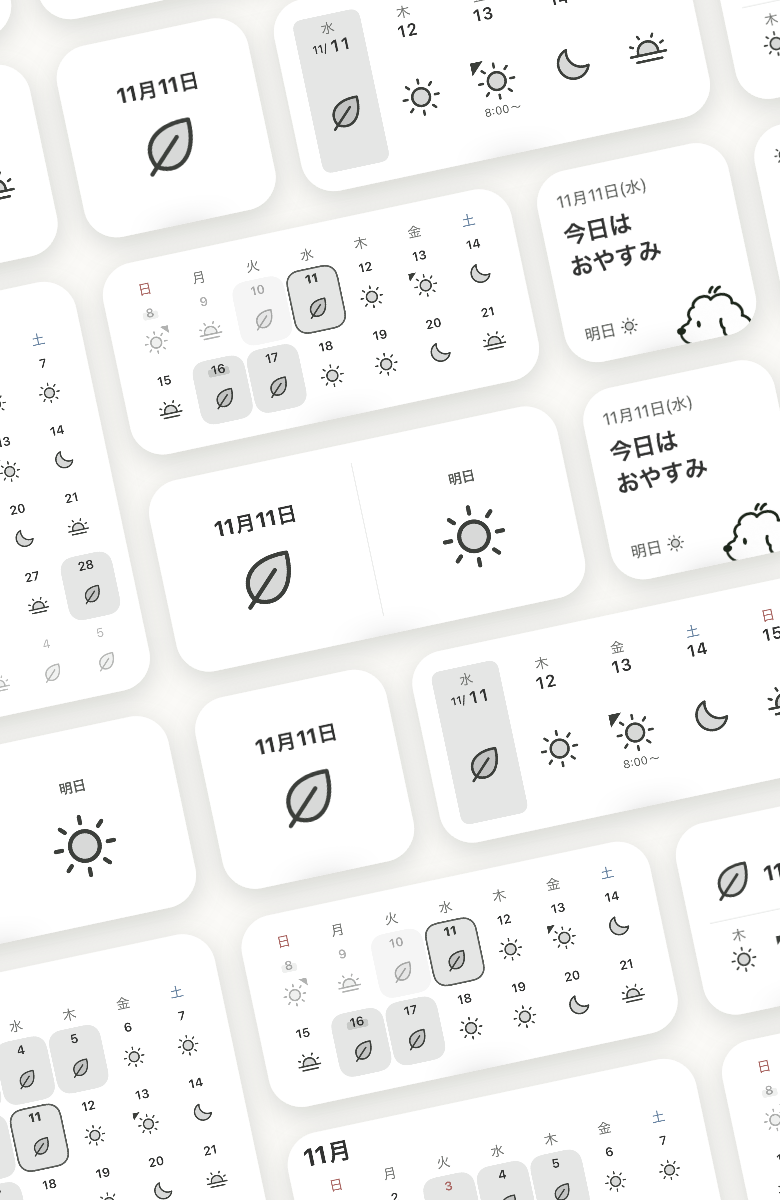
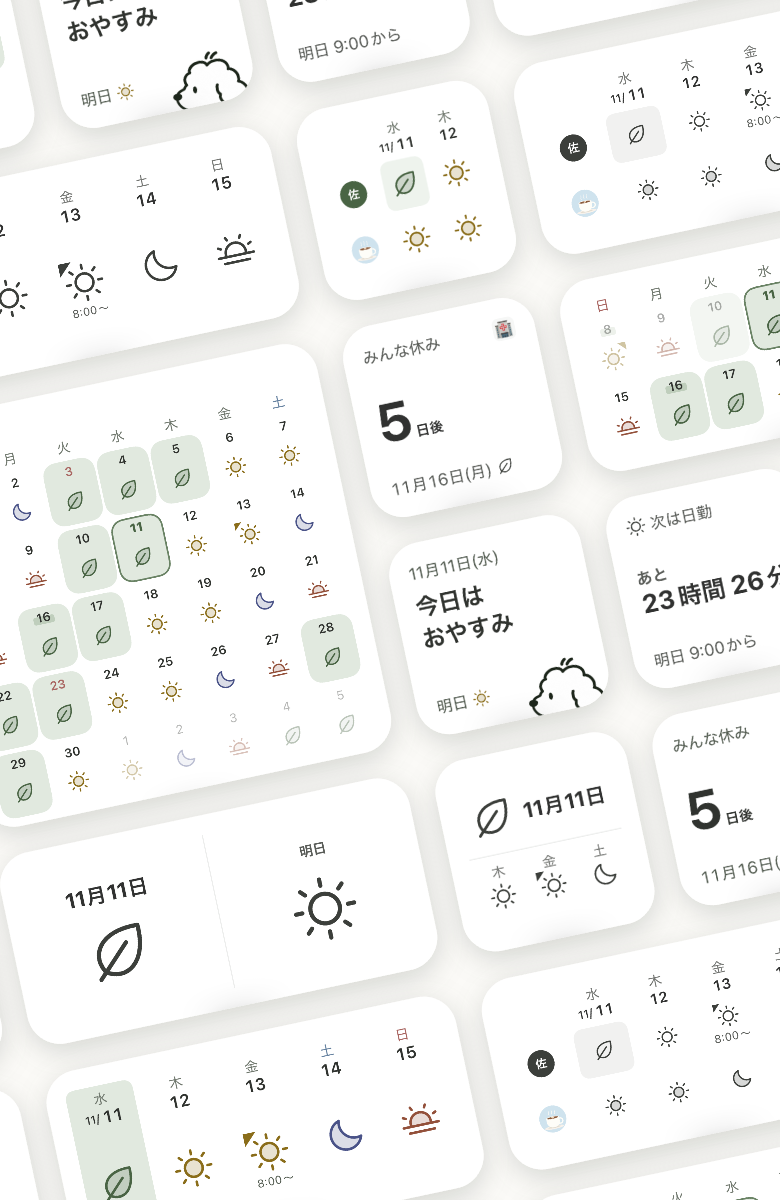
Top page: the new wall of widgets, and the coworkers' photos in 職場のみんな (#806)
The wall is drawn again by image:store from the screens of 244ece8e: the
app's two looks mixed, with the widgets set to someone and to the group.
田中, 小林 and 森 show the photos the seed gives them, the one copy in
tools/store-screenshots/avatars, in the shift table, the chat, its
reaction and its vote.

diff --git a/packages/prototype/src/lib/design-group-samples.ts b/packages/prototype/src/lib/design-group-samples.ts
@@ -1,3 +1,6 @@
+import cat from "../../../../tools/store-screenshots/avatars/cat.jpg?url";
+import coffee from "../../../../tools/store-screenshots/avatars/coffee.jpg?url";
+import flower from "../../../../tools/store-screenshots/avatars/flower.jpg?url";
 import { holidayName } from "../components/design-week";
 import { guessLook, sampleLooks } from "../components/shift-mark";
 import type { Look } from "../components/shift-mark";
@@ -281,16 +284,17 @@ export const schoolFriends = (): Member[] => [
 // 職場のみんな: the group the stores' screenshots are photographed in
 // (tools/store-screenshots/seed.ts), which the site's top page shows too.
 // Three coworkers on 二交代制 who have not exchanged contacts, so they
-// speak politely and keep no picture of themselves. Each one's eight days
-// end on the same two days off, the days everyone is off.
+// speak politely, and whose photos are the seed's own, pictures of things
+// rather than of themselves. Each one's eight days end on the same two
+// days off, the days everyone is off.
 const workplaceRounds = [
-  ["tanaka", "田中", "day night after off day day off off"],
-  ["kobayashi", "小林", "night after off day day day off off"],
-  ["mori", "森", "day day off night after day off off"],
+  ["tanaka", "田中", coffee, "day night after off day day off off"],
+  ["kobayashi", "小林", cat, "night after off day day day off off"],
+  ["mori", "森", flower, "day day off night after day off off"],
 ] as const;
 
 export const workplace = (): Member[] =>
-  workplaceRounds.map(([id, name, shifts]) => {
+  workplaceRounds.map(([id, name, photo, shifts]) => {
     const round = shifts.split(" ");
     return {
       id,
@@ -298,6 +302,7 @@ export const workplace = (): Member[] =>
       patterns: presetList(["day", "night", "after", "off"]).map(
         memberPatternOf
       ),
+      photo,
       shiftOn: (date: Date) => round[(dayNumber(date) + 5) % round.length],
     };
   });
